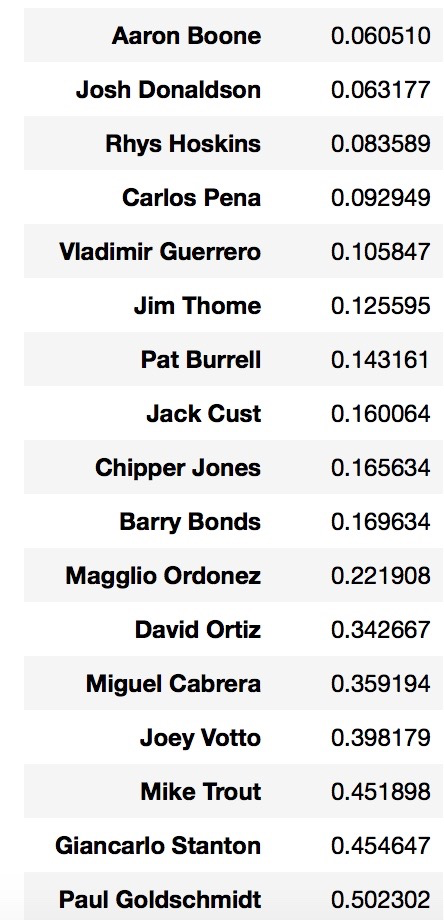
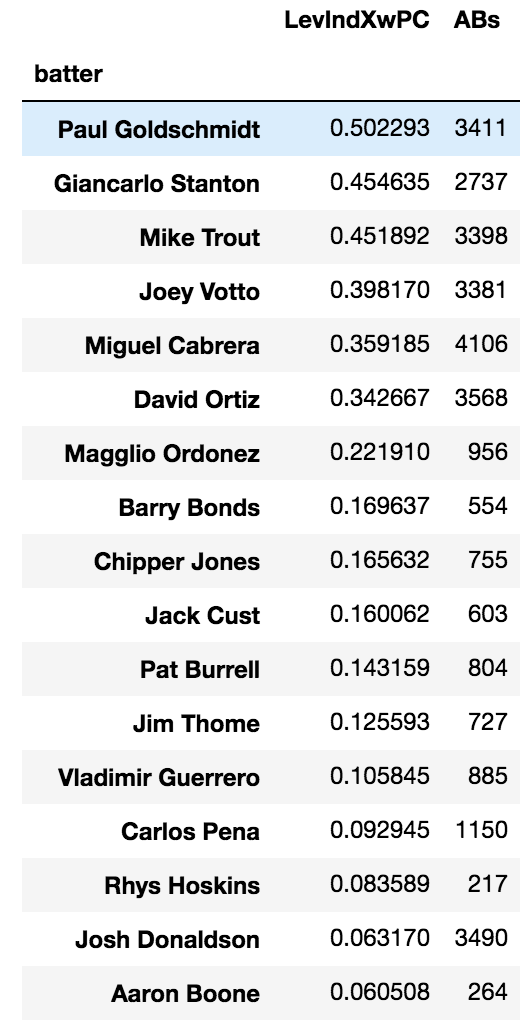
added graphs

diff --git a/index.md b/index.md
@@ -3,9 +3,10 @@ title: Baseball Win Probability and Most Clutch Players
 ---
 
 CS109a Final Project
+
 By Sam Bieler, Max Benegas, Andrew Puopolo, and Kate Schember
 
-![png](CS109a_Final_Project_Writeup_files/Cover.png){:height="75%" width="75%"}{:style=centerme}
+![png](CS109a_Final_Project_Writeup_files/Cover.png){:height="75%" width="75%"}
 
 
 
@@ -43,27 +44,48 @@ Our implementation of the win probably model required a few important decisions 
 For the WP model, we tried Random Forest, Logistic Regression, LDA, QDA, k-NN,
 and AdaBoost. After testing these models on the test set using classification accuracy rate as our performance metric, we realized this metric was not suitable for our goals. We don’t actually care much if our model correctly predicts the final outcome of a game, but rather the incremental win probabilities of every play in a game. Since our final question about clutchness is centered entirely upon play-by-play data, we needed a metric that would explain the success of each model by its mid-game win probabilities. In order to do this, we created a bin accuracy rate with 20 bins that marked success when a WP estimate was within one bin of the result. This way, each WP has to be relatively accurate throughout a game to produce a good R^2. 
 
-Using the bin accuracy rate to cross validate every model, Logistic performed the best, with an R^2 of about 0.97. We expected Logistic to be very good, as it matches logically with baseball statistics and win probabilities. LDA and Random Forest also performed very well on the test set. Interestingly, K-NN performed almost perfectly with classification accuracy, but very poorly with bin accuracy which makes sense given the nature of k-NN. In the end we relied most heavily on the results from the Logistic Regression to answer our clutchness question, but also used LDA and Random Forest to check as they were also valuable models.
+Using the bin accuracy rate to cross validate every model, Logistic performed the best, with an R^2 of about 0.9984. We expected Logistic to be very good, as it matches logically with baseball statistics and win probabilities. The Logistic bin accuracy graph is below. It graphs the bins against the percentage of games in that bin that actually won. An ideal graph would therefore follow along a straight diagonal line from (0,0) to (1,20). The graph below visualizes just how accurate our Logistic Regression model was.
+![png](CS109a_Final_Project_Writeup_files/logit.png){:height="20%" width="20%"} 
+
+LDA and Random Forest also performed very well on the test set, with respective R^2 scores of about 0.9681 and 0.9971. Interestingly, K-NN performed almost perfectly with classification accuracy, but very poorly with bin accuracy which makes sense given the nature of k-NN. In the end we relied most heavily on the results from the Logistic Regression to answer our clutchness question, but also used LDA and Random Forest to check as they were also valuable models.
 
 
 
 ## Addressing the Question of Players' Clutchness
-We wanted to address the question of whether or not certain players were “more clutch” than others, and therefore we had to determine which situations could be determined as “clutch.” To do this, we used a simplified version of Fangraphs’s (Tom Tango reference above) leverage index. We took every single instance of plays with a certain number of outs remaining in the game (top of the first has 54 outs left, 2 outs in the bottom of the 9th has 1) and run differentials from -10 to 10. In situations where the absolute run differential was more than 10, we simplified and assumed it was 10. Therefore, we had 54*21 different scenarios. From this, we calculated the average absolute win probability change of each of these 1134 states. This average absolute win probability for each of the states was our “leverage index.” To calculate the clutchness of each player, we multiplied the win probability added times the leverage of the play for every single plate appearance in order to give a “clutchness” score for each play. If a player was not clutch, they would have some data points that are massively negative due to underperformance in high leverage situations. We then summed this over all plays.
+We wanted to address the question of whether or not certain players were “more clutch” than others, and therefore we had to determine which situations could be determined as “clutch.” To do this, we used a simplified version of Fangraphs’s (Tom Tango reference above) leverage index. We took every single instance of plays with a certain number of outs remaining in the game (top of the first has 54 outs left, 2 outs in the bottom of the 9th has 1) and run differentials from -10 to 10. In situations where the absolute run differential was more than 10, we simplified and assumed it was 10. Therefore, we had 54*21 different scenarios. From this, we calculated the average absolute win probability change of each of these 1134 states. This average absolute win probability for each of the states was our “leverage index.” To calculate the clutchness of each player, we multiplied the win probability added times the leverage of the play for every single plate appearance in order to give a “clutchness” score for each play. If a player was not clutch, they would have some data points that are massively negative due to underperformance in high leverage situations. 
+
+We then calculated two versions of the clutchness of players. One was simply based on the sum of every player's clutchness score. The other was based on the mean of every player's clutchness score, and was limited to players with at least 500 plays in the data. We limited the data for the mean because we wanted to make sure no players would have a skewed score as a result of only appearing on plate a few times. By doing both models, we felt our results would avoid being skewed or otherwise biased. 
 
 
 
 ## Results and Conclusions
 Our central WP model was very successful. Based on both our bin accuracy R^2 score and our personal observations comparing the train estimates with what the original data said, all our predicted probabilities were quite accurate. Given more time, it would have been interesting to further explore what effect subset selection would have on our models. We decided that we had a reasonable number of predictors and none of them were strikingly unnecessary, so kept most of them. We also, as mentioned before, made the decision to remove the teams as predictors, which could potentially make a significant difference. Ideally, we would have been able to try a few different subsets we choose on our own and then check it with selections from a stepwise function or other subset selection model. 
 
-Our leverage index model proved very successful in the results. The most clutch batters we found were (in order from most clutch): Paul Goldschmidt, Giancarlo Stanton, Mike Trout, Joey Votto, Miguel Cabrera, David Ortiz, Magglio Ordonez, Barry Bonds, Chipper Jones, Jack Cust, Pat Burrell, Jim Thome, Vladimir Guerrero, Carlos Pena, Rhys Hoskins, Josh Donaldson, and Aaron Boone. 
+Our leverage index model proved very successful in the results. For the sum version of our clutchness scale, the most clutch batters we found were (in order from most clutch): Paul Goldschmidt, Giancarlo Stanton, Mike Trout, Joey Votto, Miguel Cabrera, David Ortiz, Magglio Ordonez, Barry Bonds, Chipper Jones, Jack Cust, Pat Burrell, Jim Thome, Vladimir Guerrero, Carlos Pena, Rhys Hoskins, Josh Donaldson, and Aaron Boone. 
 
 The most clutch pitchers were (in order from most clutch): Clayton Kershaw, Zack Greinke, Madison Bumgarner, Max Scherzer, Jon Lester, John Lackey, Adam Wainwright, Cole Hamels, Justin Verlander, Johnny Cueto, Chris Sale, Felix Hernandez, Jake Arrieta, Lance Lynn, Jake Peavy, Jacob deGrom, Jeff Samardzija, Jared Weaver, Corey Kluber, Stephen Strasburg, David Price, and Ervin Santana. 
 
 ![png](CS109a_Final_Project_Writeup_files/Batters.png){:height="20%" width="20%"}
 ![png](CS109a_Final_Project_Writeup_files/Pitchers.png){:height="20%" width="20%"} 
 
-Most of these names are the MLB stars of the past few seasons, confirming that our model is producing reasonable results. Because scraping took so long, we were only able to use data from 2006, 2007, and 2013-2017. Ideally, we would have been able to run this on all the plays for the past ten years. If given more time, we would also continue to adjust our LI model. While it seems to be giving good output now, it could still be far more complex to include more variables or weight the variables differently.
+For the mean version of our clutchness scale, the most clutch batters we found were (in order from most clutch): Barry Bonds, Jack Cust, Magglio Ordonez, Chipper Jones, Pat Burrell, Jim Thome, Giancarlo Stanton, Paul Goldschmidt, Mike Trout, Vladimir Guerrero, Joey Votto, David Ortiz, Miguel Cabrera, Carlos Pena, Frank Thomas, Carlos Guillen, Lance Berkman, Justin Bour, and Ken Griffey. 
+
+The most clutch pitchers were (in order from most clutch): Clayton Kershaw, Kenley Jansen, Madison Bumgarner, Zack Greinke, Orlando Hernandez, Koji Uehara, Parker Bridwell, Craig Kimbrel, Hyun-Jin Ryu, Jacob deGromm, Dellin Betances, Kyle Hendricks, Max Scherzer, Ryan Buchter, Derek Lowe, Jake Arrieta, Lance Lynn, Johnny Cueto, and Roger Clemens. 
+
+![png](CS109a_Final_Project_Writeup_files/Batters2.png){:height="20%" width="20%"}
+![png](CS109a_Final_Project_Writeup_files/Pitchers2.png){:height="20%" width="20%"} 
+
+Most of these names are the MLB stars of the past few seasons, confirming that our model is producing reasonable results. Both clutchness scales overlap on many players, suggesting that they are both pretty accurate but that there does indeed exist a significant difference in the average scores and summed scores. Because scraping took so long, we were only able to use data from 2006, 2007, and 2013-2017. Ideally, we would have been able to run this on all the plays for the past ten years. If given more time, we would also continue to adjust our LI model. While it seems to be giving good output now, it could still be far more complex to include more variables or weight the variables differently.
 
 Overall, however, this model successfully predicts win probability, uses that to measure the leverage index of situations, and finally is able to pick out which players perform best under high pressure conditions.
 
+
+![png](CS109a_Final_Project_Writeup_files/hist1.png){:height="40%" width="40%"} 
+![png](CS109a_Final_Project_Writeup_files/hist2.png){:height="40%" width="40%"} 
+![png](CS109a_Final_Project_Writeup_files/hist3.png){:height="40%" width="40%"} 
+![png](CS109a_Final_Project_Writeup_files/hist4.png){:height="40%" width="40%"} 
+![png](CS109a_Final_Project_Writeup_files/bar1.png){:height="40%" width="40%"} 
+![png](CS109a_Final_Project_Writeup_files/bar2.png){:height="40%" width="40%"} 
+![png](CS109a_Final_Project_Writeup_files/bar3.png){:height="40%" width="40%"} 
+![png](CS109a_Final_Project_Writeup_files/bar4.png){:height="40%" width="40%"} 
 
